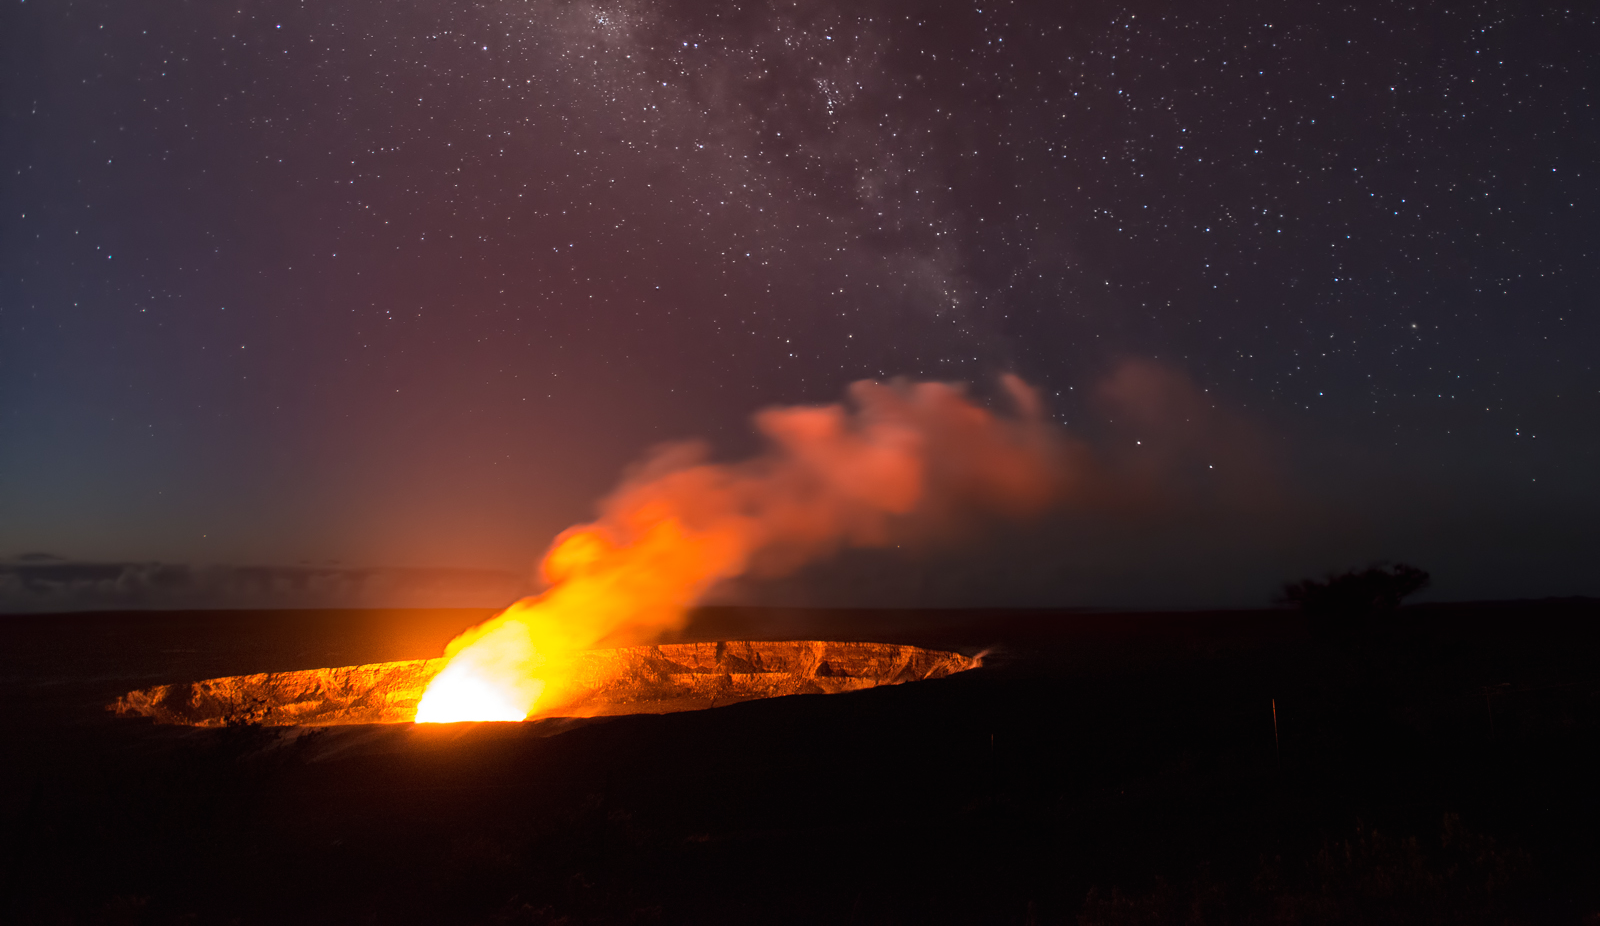
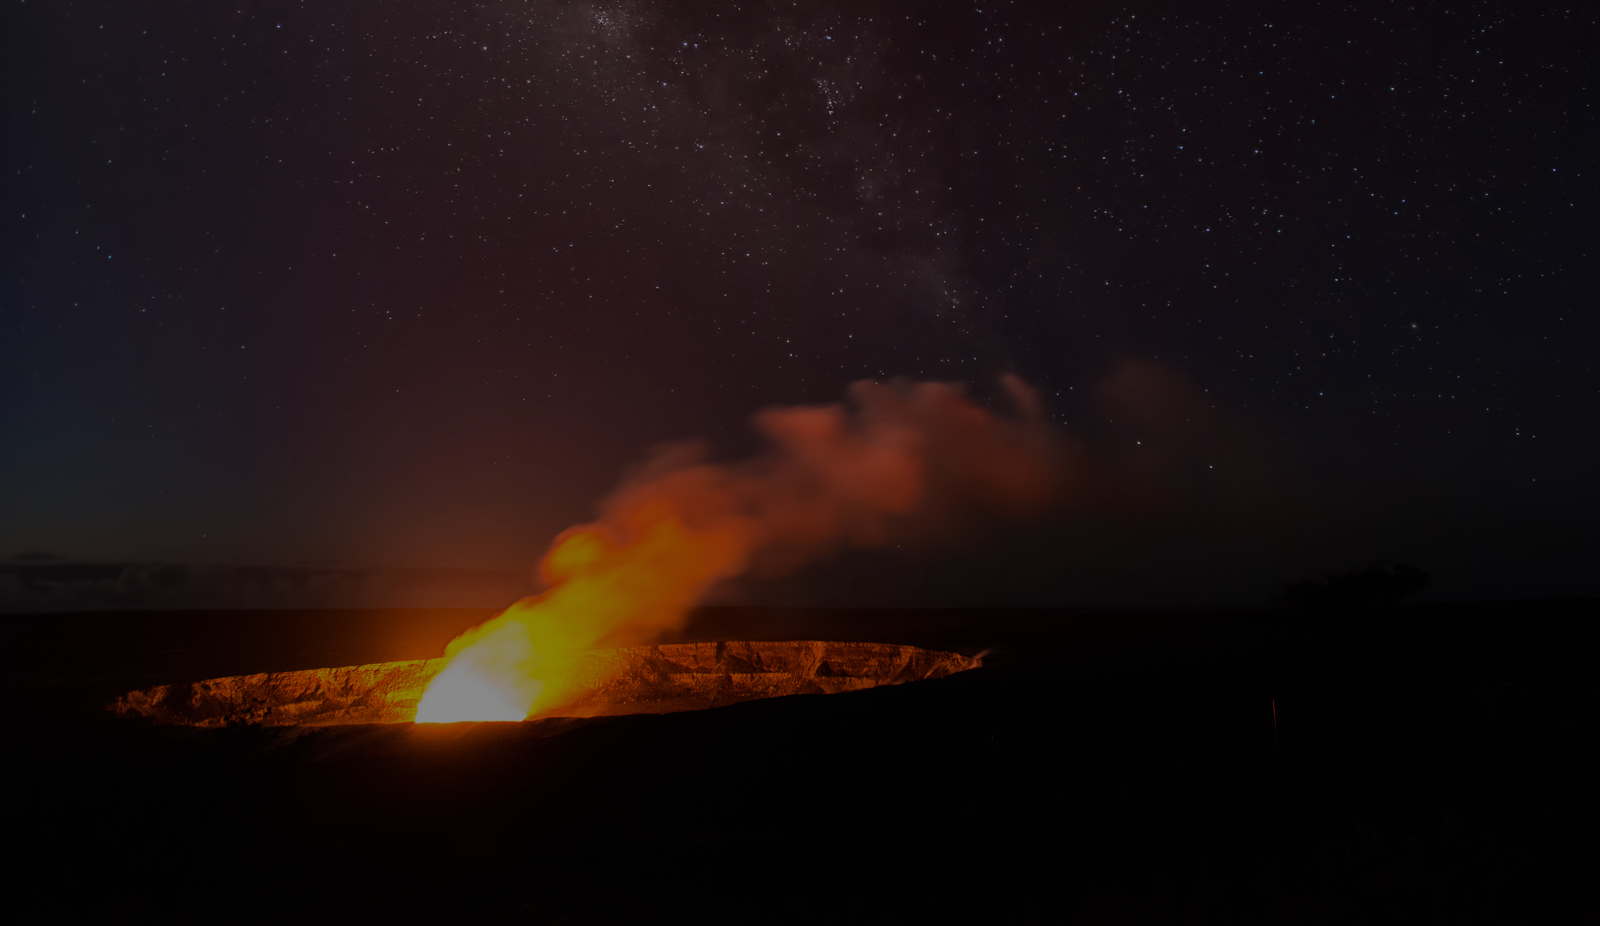
Improve page styling

diff --git a/source/stylesheets/pages/_index.css.scss b/source/stylesheets/pages/_index.css.scss
@@ -1,178 +1,110 @@
 .index {
   @include outer-container;
 
-  > footer {
+  &__header {
+    background-image: image_url('images/background.png');
+    background-size: cover;
+    min-height: 100vh;
+    display: flex;
+    justify-content: center;
+    flex-direction: column;
+    text-align: center;
+  }
+
+  &__header-content {
+    padding: $gutter * 4;
+
+    @include media(max-width 640px) {
+      padding: $gutter;
+    }
+  }
+
+  &__logo {
+    width: 250px;
+    display: inline-block;
+  }
+
+  &__logo-image {
+    width: 100%;
+  }
+
+  &__footer {
     text-align: center;
     color: #666;
-    min-height: 50px;
-    padding-bottom: 40px;
+    padding: $gutter * 3;
+    background: #000;
   }
 
-  > header {
-    position: relative;
+  &__title {
+    font-size: 75px;
+    line-height: 1.1em;
+    letter-spacing: 0;
+    font-weight: 300;
+    color: #fff;
 
-    > figure {
-      overflow: hidden;
-      max-height: 100vh;
-      text-align: center;
-
-      &:before {
-        content: " ";
-        background-color: rgba(32, 26, 22, 0.5);
-        z-index: 1;
-        position: absolute;
-        top: 0;
-        left: 0;
-        bottom: 0;
-        right: 0;
-      }
-
-      img {
-        width: 100%;
-        display: block;
-        min-height: 350px;
-      }
+    @include media(max-width 900px) {
+      font-size: 45px;
     }
 
-    .content {
-      z-index: 2;
-      text-align: center;
-      position: absolute;
-      top: 20px;
-      left: 0;
-      bottom: 0;
-      right: 0;
-      max-width: 960px;
-      margin: 0 auto;
-
-      > div {
-        display: table;
-        width: 100%;
-        height: 100%;
-
-        > div {
-          display: table-cell;
-          vertical-align: middle;
-        }
-      }
-
-      h1 img {
-        width: 250px;
-        margin-bottom: 20px;
-
-        @include media(max-width 640px) {
-          width: 200px;
-        }
-      }
-    }
-
-    h1, h2 {
-      margin: 0;
-    }
-
-    h2 {
-      font-size: 75px;
-      line-height: 1.1em;
-      text-transform: none;
-      letter-spacing: 0px;
-      font-weight: 300;
-      font-style: normal;
-      color: #fff;
-
-      @include media(max-width 900px) {
-        font-size: 45px;
-      }
-
-      @include media(max-width 640px) {
-       font-size: 30px;
-      }
-    }
-
-    a {
-      margin-top: 50px;
+    @include media(max-width 640px) {
+      font-size: 30px;
     }
   }
 
-  .team {
-    min-height: 400px;
-    padding-top: 100px;
-    padding-bottom: 100px;
-
-    h1 {
-      text-align: center;
-      color: #fff;
-    }
-
-    ul {
-      margin: 0;
-      padding: 0;
-      list-style-type: none;
-      text-align: center;
-
-      li {
-        display: inline-block;
-      }
-
-      article {
-        padding: 10px;
-        position: relative;
-        width: 250px;
-        height: 250px;
-        margin: 10px;
-
-        h1 {
-          margin: 0;
-          font-size: 18px;
-          color: #fff;
-          font-weight: normal;
-        }
-
-        figure img, .actions {
-          border-radius: 3px;
-        }
-
-        figure, .actions {
-          position: absolute;
-          top: 0;
-          left: 0;
-          right: 0;
-          bottom: 0;
-        }
-
-        .actions {
-          z-index: 1;
-          background-color: rgba(32, 26, 22, 0.7);
-          padding: 10px 5px;
-          opacity: 0;
-          transition-timing-function: ease-in-out;
-          transition-duration: 0.2s;
-          transition-property: opacity;
-
-          > div {
-            display: table;
-            width: 100%;
-            height: 100%;
-
-            > div {
-              display: table-cell;
-              vertical-align: middle;
-            }
-          }
-        }
-
-        .resume {
-          margin-top: 15px;
-        }
-
-        &:hover .actions {
-          opacity: 1;
-        }
-      }
-    }
-  }
-
-  .contact {
+  &__team {
+    display: flex;
+    justify-content: center;
+    flex-direction: column;
     text-align: center;
-    margin-bottom: 100px;
+    min-height: 100vh;
+    padding: $gutter;
+  }
+
+  &__contact {
+    margin: $gutter * 3 0 $gutter;
+  }
+
+  &__person {
+    display: inline-block;
+    position: relative;
+    width: 250px;
+    height: 250px;
+    margin: $gutter;
+  }
+
+  &__person-avatar {
+    width: 100%;
+  }
+
+  &__person-actions {
+    padding: $gutter;
+    position: absolute;
+    left: 0;
+    right: 0;
+    bottom: 0;
+    top: 0;
+    display: flex;
+    flex-direction: column;
+    justify-content: center;
+    background-color: rgba(32, 26, 22, 0.7);
+    transition-timing-function: ease-in-out;
+    transition-duration: 0.2s;
+    transition-property: opacity;
+    opacity: 0;
+
+    &:hover {
+      opacity: 1;
+    }
+  }
+
+  &__person-title {
+    margin: 0;
+    font-size: 18px;
+    color: #fff;
+    font-weight: normal;
+  }
+
+  &__person-resume {
+    margin-top: $gutter;
   }
 }

diff --git a/source/stylesheets/all.css.scss b/source/stylesheets/all.css.scss
@@ -10,7 +10,7 @@
 body {
   font-family: "source-serif-pro", sans-serif;
   font-weight: 300;
-  background: #130f0d;
+  background-color: #111;
 }
 
 a, button {
